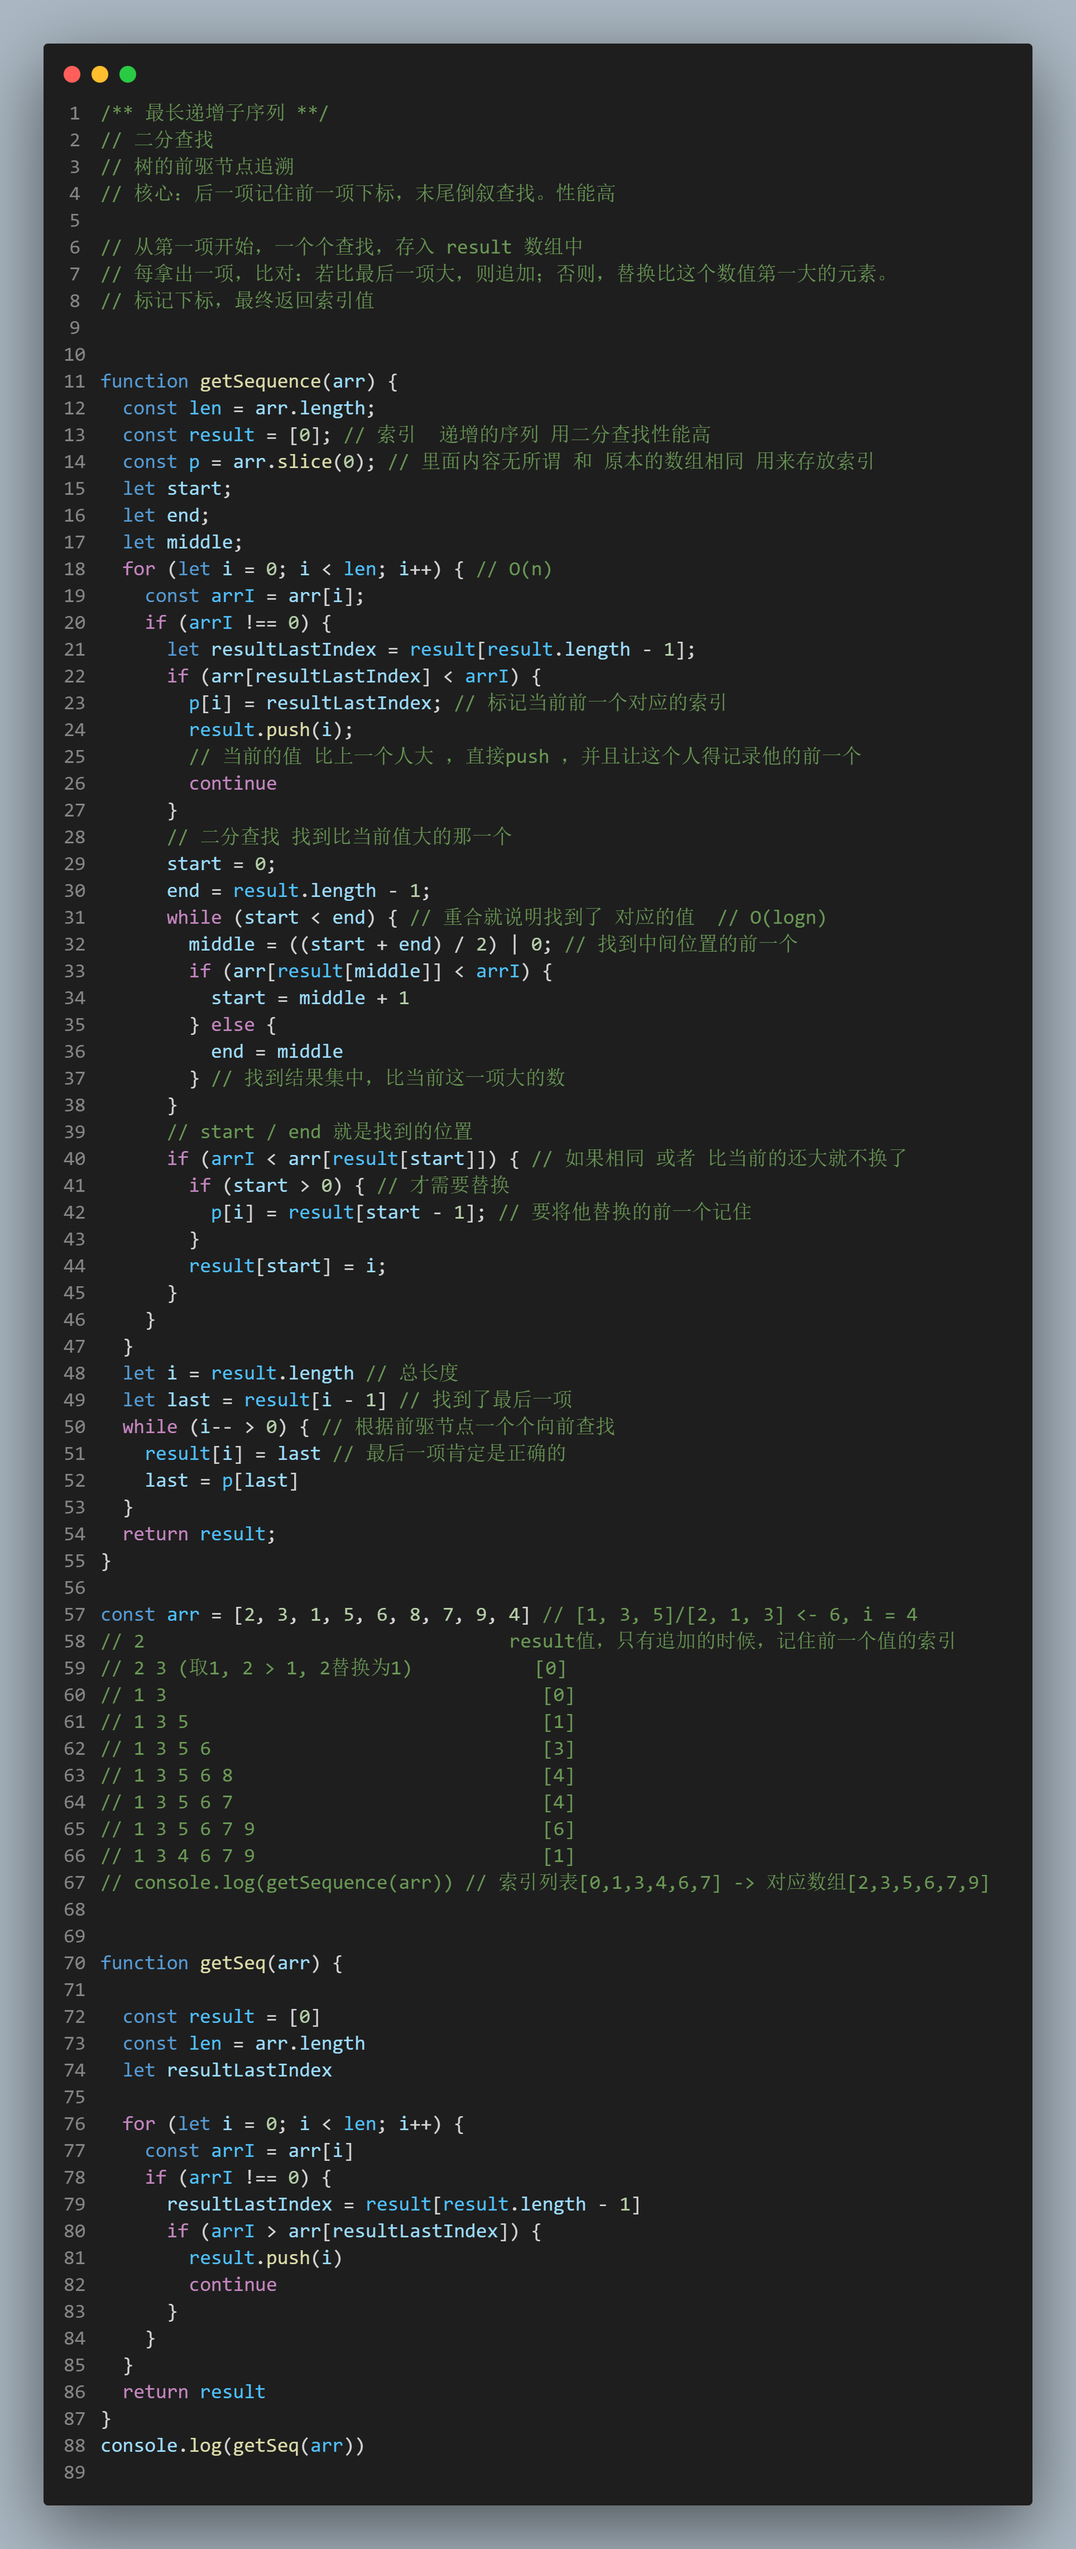
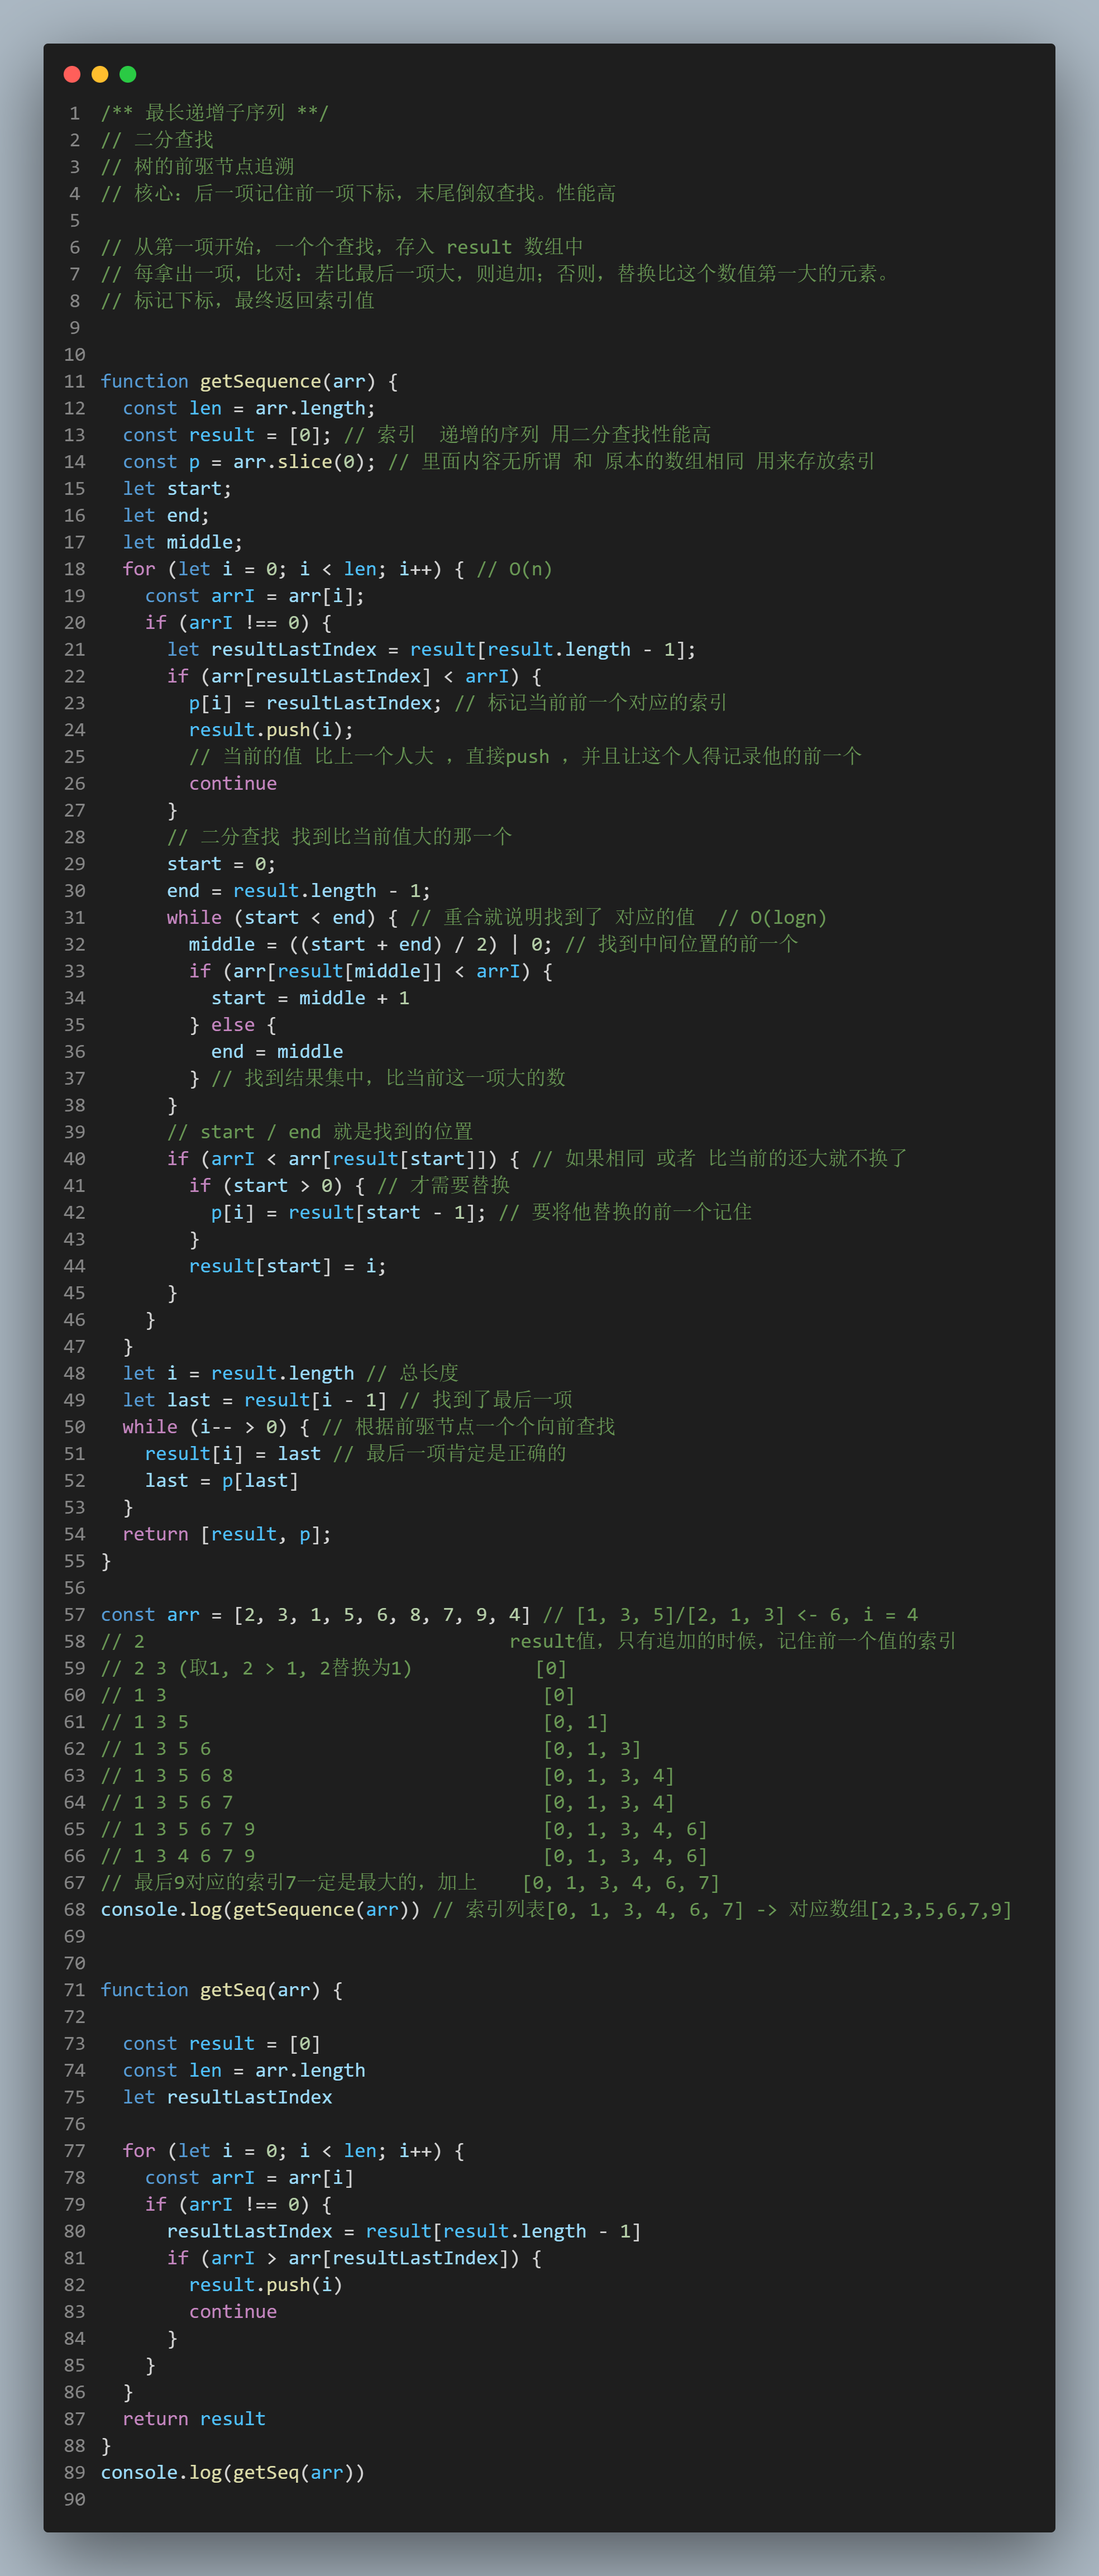
doc: add getSequence doc

diff --git a/packages/runtime-core/src/renderer.ts b/packages/runtime-core/src/renderer.ts
@@ -427,6 +427,8 @@ export function h(type, propsOrChildren?, children?) {
 }
 
 // https://en.wikipedia.org/wiki/Longest_increasing_subsequence
+// 最长递增子序列
+// 二分查找 + 贪心算法
 function getSequence(arr: number[]): number[] {
   const p = arr.slice()
   // 类似数组副本，存放每一项比其大的那个值对应的下标
@@ -449,7 +451,7 @@ function getSequence(arr: number[]): number[] {
         continue
       }
 
-      // 二分查找
+      // 2. 二分查找，第一个比arrI大的值
       u = 0
       v = result.length - 1
       while (u < v) {
@@ -460,7 +462,9 @@ function getSequence(arr: number[]): number[] {
           v = c
         }
       }
-      // 找到中间值
+      // 3. 找到中间值，result 中替换掉，第一个比arrI大的那个值，对应的下标
+      // 同时在 p 中记录，result 中被替换值的前一项。
+      // 贪心算法：最终 p 数组中记录的都是，原数组中每一项第一个比他大的值的下标
       if (arrI < arr[result[u]]) {
         if (u > 0) {
           p[i] = result[u - 1] // 记录前一项
@@ -479,4 +483,28 @@ function getSequence(arr: number[]): number[] {
   return result
 }
 
-// 如：[2, 3, 1, 4, 5] -> []
+/**
+ * 例如：[2, 3, 1, 5, 6, 8, 7, 9, 4]
+ * 输出：[0, 1, 3, 4, 6, 7] 索引值 -> 数值 [2, 3, 5, 6, 9]
+ * O(n log n)
+ * 
+ * 迭代arr流程：
+ * 数值        value  下标  操作result                操作p
+ * 2             2    0     无   [0]                    [2, 3, 1, 5, 6, 8, 7, 9, 4]
+ * 2 3           3    1     追加 [0, 1]                 [2, 0, 1, 5, 6, 8, 7, 9, 4]
+ * 1 3           1    2     替换2[2, 1]                 [2, 0, 1, 5, 6, 8, 7, 9, 4]
+ * 1 3 5         5    3     追加 [2, 1, 3]              [2, 0, 1, 1, 6, 8, 7, 9, 4]
+ * 1 3 5 6       6    4     追加 [2, 1, 3, 4]           [2, 0, 1, 5, 6, 8, 7, 9, 4] 
+ * 1 3 5 6 8     8    5     追加 [2, 1, 3, 4, 5]        [2, 0, 1, 5, 6, 8, 7, 9, 4]
+ * 1 3 5 6 7     7    6     替换8[2, 1, 3, 4, 6]        [2, 0, 1, 5, 6, 8, 7, 9, 4]
+ * 1 3 5 6 7 9   9    7     追加 [2, 1, 3, 4, 6, 7]     [2, 0, 1, 5, 6, 8, 7, 6, 4]
+ * 1 3 4 6 7 9   4    8     替换5[2, 1, 8, 4, 6, 7]     [2, 0, 1, 5, 6, 8, 7, 6, 1]
+ * 
+ * looping backwards result
+ * 索引：[0, 1, 3, 4, 6, 7]
+ * 数组值：[2, 3, 5, 6, 8, 9]
+ * 
+ * result 存放拿出的索引值
+ * p 用于存放，比其小的那一项索引值。初始值是输入的 arr
+ * 核心：下一项记录前一项中的索引。最后从后往前找
+ */

diff --git a/docs/getSeq.js b/docs/getSeq.js
@@ -55,34 +55,35 @@ function getSequence(arr) {
 }
 
 const arr = [2, 3, 1, 5, 6, 8, 7, 9, 4] // [1, 3, 5]/[2, 1, 3] <- 6, i = 4
-// 2                                 result值，只有追加的时候，记住前一个值的索引
+// 2                                 result值
 // 2 3 (取1, 2 > 1, 2替换为1)           [0]
 // 1 3                                  [0]
-// 1 3 5                                [1]
-// 1 3 5 6                              [3]
-// 1 3 5 6 8                            [4]
-// 1 3 5 6 7                            [4]
-// 1 3 5 6 7 9                          [6]
-// 1 3 4 6 7 9                          [1]
-console.log(getSequence(arr)) // 索引列表[0,1,3,4,6,7] -> 对应数组[2,3,5,6,7,9]
+// 1 3 5                                [0, 1]
+// 1 3 5 6                              [0, 1, 3]
+// 1 3 5 6 8                            [0, 1, 3, 4]
+// 1 3 5 6 7                            [0, 1, 3, 4]
+// 1 3 5 6 7 9                          [0, 1, 3, 4, 6]
+// 1 3 4 6 7 9                          [0, 1, 3, 4, 6]
+// 最后9对应的索引7一定是最大的，加上    [0, 1, 3, 4, 6, 7]
+console.log(getSequence(arr)) // 索引列表[0, 1, 3, 4, 6, 7] -> 对应数组[2,3,5,6,7,9]
 
 
-// function getSeq(arr) {
+function getSeq(arr) {
 
-//   const result = [0]
-//   const len = arr.length
-//   let resultLastIndex
+  const result = [0]
+  const len = arr.length
+  let resultLastIndex
 
-//   for (let i = 0; i < len; i++) {
-//     const arrI = arr[i]
-//     if (arrI !== 0) {
-//       resultLastIndex = result[result.length - 1]
-//       if (arrI > arr[resultLastIndex]) {
-//         result.push(i)
-//         continue
-//       }
-//     }
-//   }
-//   return result
-// }
-// console.log(getSeq(arr))
+  for (let i = 0; i < len; i++) {
+    const arrI = arr[i]
+    if (arrI !== 0) {
+      resultLastIndex = result[result.length - 1]
+      if (arrI > arr[resultLastIndex]) {
+        result.push(i)
+        continue
+      }
+    }
+  }
+  return result
+}
+console.log(getSeq(arr))

diff --git a/README.md b/README.md
@@ -1133,7 +1133,247 @@ new: ['a', 'b', 'e', 'c', 'd', 'h', 'f', 'g']
 ```
 
 **实现**
+```js
+const patchKeyedChildren = (c1, c2, el) => {
+  let i = 0
+  const l2 = c2.length
+  let e1 = c1.length - 1 // prev ending index
+  let e2 = l2 - 1 // next ending index
 
+  // 1. sync from start
+  // (a b) c
+  // (a b) d e
+  // i = 2
+  while (i <= e1 && i <= e2) {
+    const n1 = c1[i]
+    const n2 = c2[i]
+    if (isSameVNodeType(n1, n2)) {
+      patch(n1, n2, el)
+    } else {
+      break
+    }
+    i++
+  }
+
+  // 2. sync from end
+  // a (b c)
+  // d e (b c)
+  // e1 = 0, e2 = 1
+  while (i <= e1 && i <= e2) {
+    const n1 = c1[e1]
+    const n2 = c2[e2]
+    if (isSameVNodeType(n1, n2)) {
+      patch(n1, n2, el)
+    } else {
+      break
+    }
+    e1--
+    e2--
+  }
+
+  // 3. common sequence + mount
+  // (a b)
+  // (a b) c
+  // i = 2, e1 = 1, e2 = 2
+  // (a b)
+  // c (a b)
+  // i = 0, e1 = -1, e2 = 0
+  if (i > e1) {
+    if (i <= e2) {
+      const nextPos = e2 + 1
+      const anchor = nextPos < l2 ? c2[nextPos].el : null
+      while (i <= e2) {
+        patch(null, c2[i], el, anchor)
+        i++
+      }
+    }
+  }
+
+  // 4. common sequence + unmount
+  // (a b) c
+  // (a b)
+  // i = 2, e1 = 2, e2 = 1
+  // a (b c)
+  // (b c)
+  // i = 0, e1 = 0, e2 = -1
+  else if (i > e2) {
+    while (i <= e1) {
+      unmount(c1[i])
+      i++
+    }
+  }
+
+  // 5. unknown sequence
+  // [i ... e1 + 1]: a b [c d e] f g
+  // [i ... e2 + 1]: a b [e d c h] f g
+  // i = 2, e1 = 4, e2 = 5
+  else {
+    const s1 = i
+    const s2 = i
+
+    // 5.1 build key:index map for newChildren
+    const keyToNewIndexMap = new Map()
+    for (i = s2; i <= e2; i++) {
+      const nextChild = c2[i]
+      if (nextChild.key != null) {
+        keyToNewIndexMap.set(nextChild.key, i) // { e: 2, d: 3, c: 4, h: 5 }
+      }
+    }
+
+    // 5.2 loop through old children left to be patched and try to patch
+    // matching nodes & remove nodes that are no longer present
+    let j
+    let patched = 0
+    const toBePatched = e2 - s2 + 1 // 需要被 patch 的个数，供后续 newIndexToOldIndexMap 初始化用
+    // used to track whether any node has moved
+    // 即最长递增子序列，0 表示新增的，在标记下标时注意区分（+1）
+    const newIndexToOldIndexMap = new Array(toBePatched).fill(0)
+    // for (i = 0; i < toBePatched; i++) newIndexToOldIndexMap[i] = 0
+
+    for (i = s1; i <= e1; i++) {
+      const prevChild = c1[i]
+      if (patched >= toBePatched) {
+        // all new children have been patched so this can only be a removal
+        unmount(prevChild)
+        continue
+      }
+      let newIndex
+      newIndex = keyToNewIndexMap.get(prevChild?.key)
+
+      if (newIndex === undefined) {
+        unmount(prevChild) // 新的有，老的无，移除
+      } else {
+        // 新元素对应老元素的索引值 + 1，（+1是为了区分新增值如h ）
+        // [e, d, c, h] -> 初始态[0, 0, 0, 0] -> 在老数组中对应的下标 [4 + 1, 3 + 1, 2 + 1, 0]
+        newIndexToOldIndexMap[newIndex - s2] = i + 1
+        patch(prevChild, c2[newIndex], el, null)
+        patched++
+      }
+    }
+    // 5.3 move and mount
+
+    // 实现一：直接倒序插入，这样性能不太好，如果有增续，可以不变，乱序追加即可
+    // for (let i = toBePatched; i > 0; i--) {
+    //   const nextIndex = s2 + i
+    //   const nextChild = c2[nextIndex]
+    //   const anchor = nextIndex + 1 < c2.length ? c2[nextIndex + 1].el : null
+    //   if (newIndexToOldIndexMap[i] == 0) {
+    //     patch(null, nextChild, el, anchor)
+    //   } else {
+    //     hostInsert(nextChild.el, el, anchor)
+    //   }
+    // }
+
+    // 实现二：最长递增子序列 [5, 4, 3, 0]
+    const increasingNewIndexSequence = getSequence(newIndexToOldIndexMap);
+    console.log(increasingNewIndexSequence)
+    j = increasingNewIndexSequence.length - 1;
+    for (i = toBePatched - 1; i >= 0; i--) {
+      let currentIndex = i + s2; // 找到h的索引
+      let child = c2[currentIndex]; // 找到h对应的节点
+      let anchor = currentIndex + 1 < c2.length ? c2[currentIndex + 1].el : null; // 第一次插入h 后 h是一个虚拟节点
+      if (newIndexToOldIndexMap[i] == 0) {
+        // 新增节点
+        patch(null, child, el, anchor)
+      } else {
+        // 当前元素不在递增序列中
+        // OR 无递增序列，如：reverse
+        if (i != increasingNewIndexSequence[j] || j < 0) {
+          hostInsert(child.el, el, anchor);
+        } else {
+          j--; // 跳过不需要移动的元素， 为了减少移动操作 需要这个最长递增子序列算法  
+        }
+      }
+    }
+  }
+}
+```
+
+getSequence
+```js
+// https://en.wikipedia.org/wiki/Longest_increasing_subsequence
+// 最长递增子序列
+// 二分查找 + 贪心算法
+function getSequence(arr: number[]): number[] {
+  const p = arr.slice()
+  // 类似数组副本，存放每一项比其大的那个值对应的下标
+  // 如：[1,2,3,] p -> [1, 0, 1] 第一项由于没人和他比对，还是他自己
+  const result = [0]
+  // 存放追加值前面的索引，贪心算法
+
+  let i, j, u, v, c
+  const len = arr.length
+
+  for (i = 0; i < len; i++) {
+    const arrI = arr[i]
+    // 0 表示新增元素，不处理
+    if (arrI !== 0) {
+      j = result[result.length - 1]
+      // 1. 当前元素>取出的最大元素，追加入result，并记录下标
+      if (arrI > arr[j]) {
+        p[i] = j
+        result.push()
+        continue
+      }
+
+      // 2. 二分查找，第一个比arrI大的值
+      u = 0
+      v = result.length - 1
+      while (u < v) {
+        c = (u + v) >> 1 // 取中间值
+        if (arrI > arr[result[c]]) {
+          u = c + 1
+        } else {
+          v = c
+        }
+      }
+      // 3. 找到中间值，result 中替换掉，第一个比arrI大的那个值，对应的下标
+      // 同时在 p 中记录，result 中被替换值的前一项。
+      // 贪心算法：最终 p 数组中记录的都是，原数组中每一项第一个比他大的值的下标
+      if (arrI < arr[result[u]]) {
+        if (u > 0) {
+          p[i] = result[u - 1] // 记录前一项
+        }
+        result[u] = i
+      }
+    }
+  }
+  // 前驱子节点追溯，倒序查找
+  u = result.length
+  v = result[u - 1]
+  while (u-- > 0) {
+    result[u] = v
+    v = p[v]
+  }
+  return result
+}
+
+/**
+ * 例如：[2, 3, 1, 5, 6, 8, 7, 9, 4]
+ * 输出：[0, 1, 3, 4, 6, 7] 索引值 -> 数值 [2, 3, 5, 6, 9]
+ * O(n log n)
+ * 
+ * 迭代arr流程：
+ * 数值        value  下标  操作result
+ * 2             2    0     无   [0]               
+ * 2 3           3    1     追加 [0, 1]            
+ * 1 3           1    2     替换2[2, 1]            
+ * 1 3 5         5    3     追加 [2, 1, 3]         
+ * 1 3 5 6       6    4     追加 [2, 1, 3, 4]       
+ * 1 3 5 6 8     8    5     追加 [2, 1, 3, 4, 5]   
+ * 1 3 5 6 7     7    6     替换8[2, 1, 3, 4, 6]   
+ * 1 3 5 6 7 9   9    7     追加 [2, 1, 3, 4, 6, 7]
+ * 1 3 4 6 7 9   4    8     替换5[2, 1, 8, 4, 6, 7]
+ * 
+ * looping backwards result
+ * 索引：[0, 1, 3, 4, 6, 7]
+ * 数组值：[2, 3, 5, 6, 8, 9]
+ * 
+ * result 存放拿出的索引值
+ * p 用于存放，比其小的那一项索引值。初始值是输入的 arr
+ * 核心：下一项记录前一项中的索引。最后从后往前找
+ */
+```
 
 
 ## 补充
